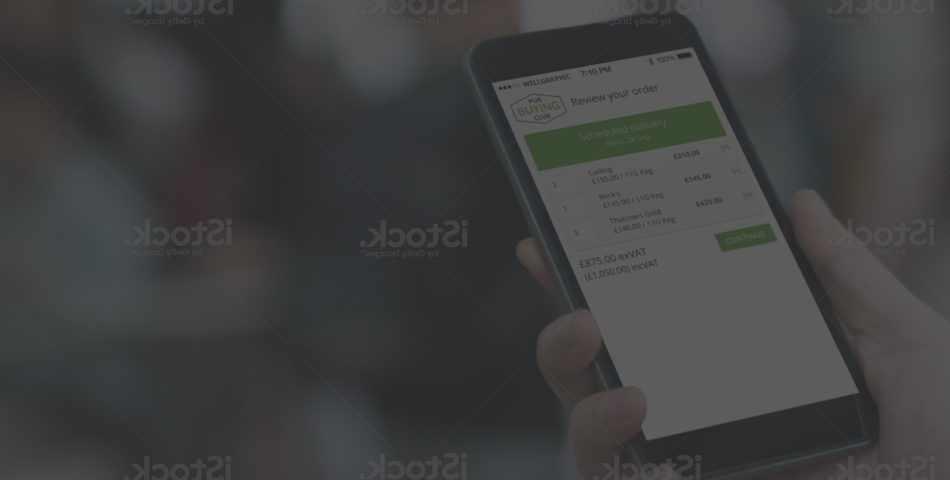
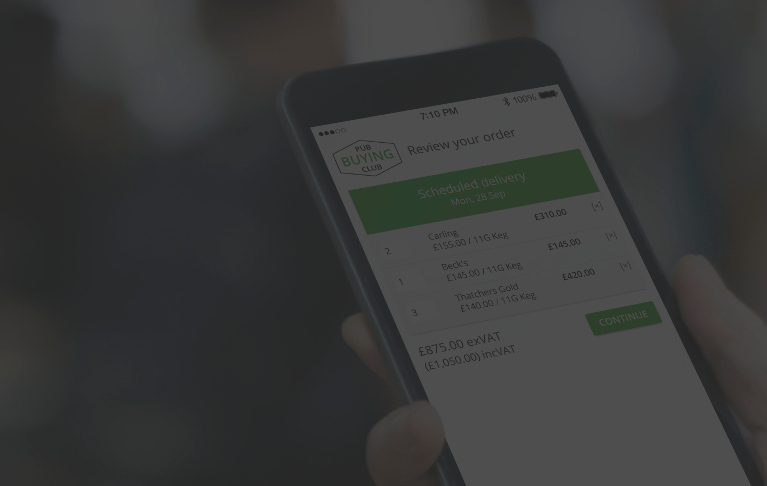
new images for homepage hero

diff --git a/app/templates/layouts/pages/index.html b/app/templates/layouts/pages/index.html
@@ -1,15 +1,9 @@
 {% extends "layouts/default.html" %}
 
+{% set hero_style = 'hero--homepage' %}
+
 {% block hero %}
-<style>
-/* 1px before 768 (bp-medium) */
-@media (max-width: 47.9375em) {
-	.hero {
-		background-image: url({{ assets }}/images/hero--home-mobile.jpg) !important;
-	}
-}
-</style>
-<div class="hero__well-padded">
+<div class="hero__text-left">
 	<h1>Fixing <span>enterprise software</span>, one application at a time.</h1>
 	<p>Personalise & tailor every interaction with your customer to maximize the impact.</p>
 	<p><button class="button--primary button--hero">Get started now for FREE</button></p>

diff --git a/app/templates/layouts/default.html b/app/templates/layouts/default.html
@@ -1,7 +1,7 @@
 {% extends "layouts/base.html" %}
 {% block page %}
 <img class="prefetch" src="{{ assets }}/images/{{ page.metadata.hero if page.metadata.hero else 'hero--default.jpg' }}" alt />
-<div class="hero" style="background-image: url({{ assets }}/images/{{ page.metadata.hero if page.metadata.hero else 'hero--default.jpg' }})">
+<div class="hero {{ hero_style }}" style="background-image: url({{ assets }}/images/{{ page.metadata.hero if page.metadata.hero else 'hero--default.jpg' }})">
 	<div class="content-wrap">
 		{% block hero %}
 			<h1>{{ page.title }}</h1>

diff --git a/app/contents/assets/scss/theme/_hero.scss b/app/contents/assets/scss/theme/_hero.scss
@@ -5,12 +5,6 @@
 	color: white;
 	text-shadow: 0 0 3px rgba(0, 0, 0, 0.5);
 
-	&__well-padded {
-		@media (min-width: $bp-medium) {
-			padding: $pad*4 42.5% $pad*7 0;
-		}
-	}
-
 	h1 {
 		color: inherit;
 		font-size: 4.1rem;
@@ -23,5 +17,16 @@
 
 	h1, p {
 		line-height: 1.3;
+	}
+
+	&--homepage {
+		@media (min-width: $bp-medium) {
+			padding-top: 10%;
+			padding-bottom: 15%;
+		}
+
+		@media (max-width: $bp-medium - (1em/16em)) {
+			background-image: url(/assets/images/hero--home-mobile.jpg) !important;
+		}
 	}
 }

diff --git a/app/contents/assets/scss/modules/_hero.scss b/app/contents/assets/scss/modules/_hero.scss
@@ -4,4 +4,15 @@
 	background-position: 50% 33%;
 	background-size: cover;
 	background-repeat: no-repeat;
+
+	@media (min-width: $bp-medium) {
+		&__text-left {
+			padding-right: 45%;
+		}
+
+		&__text-right {
+			padding-left: 45%;
+			text-align: right;
+		}
+	}
 }
